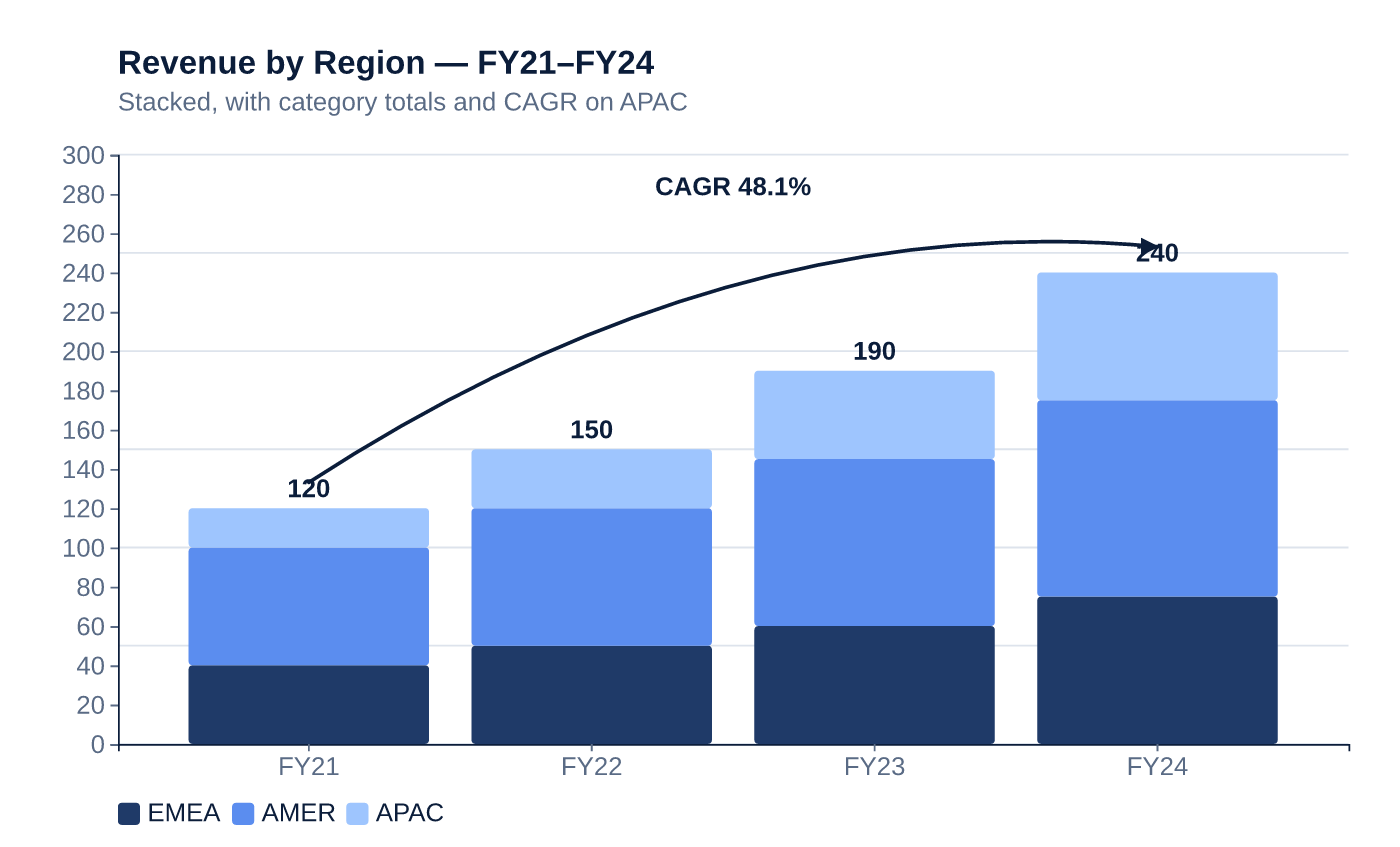
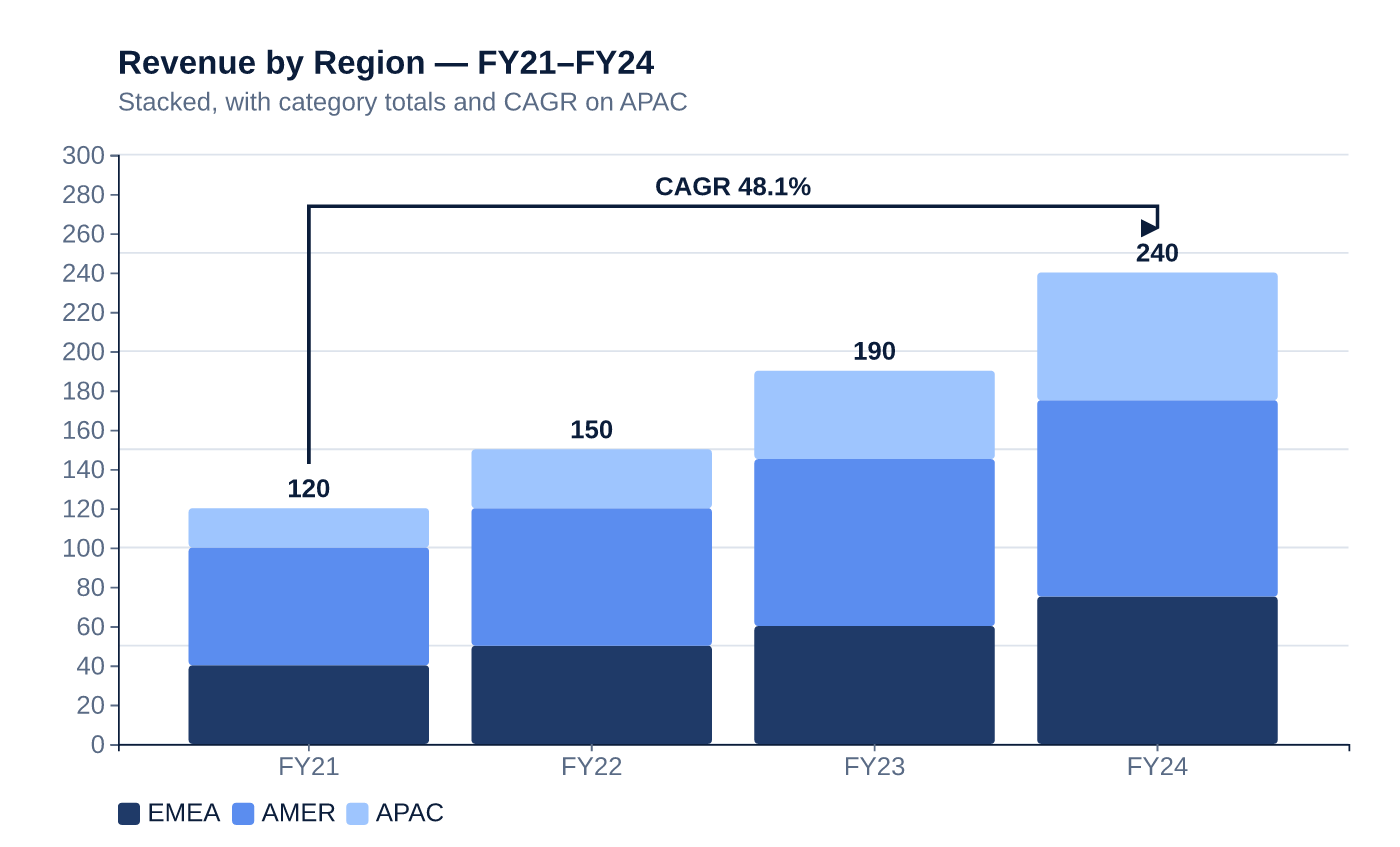
CAGR arrow: angular stairstep with proper data-label clearance
Previously a quadratic-curve bow that crashed through total-label
glyphs at the endpoints. Now an angular L-rail-L stairstep with
trend-aware geometry and explicit margins:

- Vertical leg starts above any data label at the endpoint category
  (value label, stack top, or total_labels glyph) — not just above
  the bar top.
- 10pt clearance between the highest data label in the [from..to]
  span and the horizontal CAGR rail.
- 6pt clearance between the rail and the "CAGR x.x%" label baseline.
- Arrow head lands cleanly on the to-anchor's data label (above it,
  not behind it).

Implementation:

src/annotations.ts
  drawCagrArrow rewritten: angular path
    M from.x fromY  L from.x railY  L to.x railY  L to.x toY
  with marker-end pointing down at toY.

  spanExtremeY(layout, from, to, placement) — new helper. Walks every
  bar + value label in [from..to] inclusive (or every line/area point
  in the same x range) and returns the visual extreme. Used to seat
  the rail above (or below) all in-span data labels.

  dataTopAtCategory(ctx, category, placement) — new helper. Returns
  the topmost rendered point at a single category, accounting for
  bar tops, value labels (valueLabelY), and the synthetic
  total_labels glyph (when total_labels is present in ctx.annotations).
  Used to anchor the start/end of the verticals so they don't crash
  through endpoint labels.

  applyAnnotations now runs background annotations (range_band,
[…]

diff --git a/src/annotations.ts b/src/annotations.ts
@@ -126,6 +126,114 @@ function ensureArrowMarker(frame: ChartFrame, color: string): string {
  * null if not a bar layout, refs don't resolve, or there are no
  * intermediate bars.
  */
+/**
+ * Topmost (smallest y, "above") or bottommost (largest y, "below") rendered
+ * point at a single category — the bar tops, value labels above bars, and
+ * the synthetic total label (if total_labels was requested) at that
+ * category. Used to anchor vertical legs of CAGR/delta brackets so they
+ * start above the data label, not behind it.
+ */
+function dataTopAtCategory(
+  ctx: ApplyContext,
+  category: string | number,
+  placement: "above" | "below",
+): number | null {
+  const layout = ctx.layout;
+  if (
+    layout.kind !== "bar" &&
+    layout.kind !== "stacked_bar" &&
+    layout.kind !== "waterfall"
+  ) {
+    // Line/area: caller handles via the point's own y.
+    return null;
+  }
+  const bars = layout.bars.filter(
+    (b) => String(b.category) === String(category),
+  );
+  if (bars.length === 0) return null;
+  const totalsPresent = ctx.annotations.some(
+    (a) => a.type === "total_labels",
+  );
+  const labelSize = ctx.frame.ds.typography.labelSize;
+  if (placement === "above") {
+    let top = Math.min(
+      ...bars.map((b) => (b.valueLabelY != null ? Math.min(b.y, b.valueLabelY) : b.y)),
+    );
+    if (totalsPresent) {
+      // total_labels baseline = stackTop - 6; glyph top ≈ baseline - labelSize.
+      const stackTop = Math.min(...bars.map((b) => b.y));
+      top = Math.min(top, stackTop - 6 - labelSize);
+    }
+    return top;
+  } else {
+    return Math.max(...bars.map((b) => b.y + b.height));
+  }
+}
+
+/**
+ * Visual extreme-y across the inclusive [from..to] span. For an "above"
+ * placement, returns the smallest y (highest visual point) across all bars
+ * + their value labels + all line/area/scatter points in the span. For
+ * "below" placement, returns the largest y (lowest visual point).
+ *
+ * Used by the angular CAGR/delta drawers so the rail clears every data
+ * label in its span — including the endpoints themselves — not just the
+ * intermediate points.
+ */
+function spanExtremeY(
+  layout: ChartLayout,
+  from: Ref,
+  to: Ref,
+  placement: "above" | "below",
+): number | null {
+  const cmp = (a: number, b: number): number =>
+    placement === "above" ? Math.min(a, b) : Math.max(a, b);
+  let extreme = placement === "above" ? Infinity : -Infinity;
+
+  if (
+    layout.kind === "bar" ||
+    layout.kind === "stacked_bar" ||
+    layout.kind === "waterfall"
+  ) {
+    const cats = layout.axes.x.domain.map(String);
+    const fi = cats.indexOf(String(from.x));
+    const ti = cats.indexOf(String(to.x));
+    if (fi < 0 || ti < 0) return null;
+    const lo = Math.min(fi, ti);
+    const hi = Math.max(fi, ti);
+    for (const b of layout.bars) {
+      const i = cats.indexOf(String(b.category));
+      if (i < lo || i > hi) continue;
+      const candidate =
+        placement === "above"
+          ? b.valueLabelY != null
+            ? Math.min(b.y, b.valueLabelY)
+            : b.y
+          : b.y + b.height;
+      extreme = cmp(extreme, candidate);
+    }
+  } else if (layout.kind === "line" || layout.kind === "area") {
+    const fxRaw = (from as any).x;
+    const txRaw = (to as any).x;
+    const numericSpan =
+      typeof fxRaw === "number" && typeof txRaw === "number";
+    const lo = numericSpan ? Math.min(fxRaw, txRaw) : -Infinity;
+    const hi = numericSpan ? Math.max(fxRaw, txRaw) : Infinity;
+    for (const s of layout.series) {
+      for (const p of s.points) {
+        if (numericSpan && typeof p.xValue === "number") {
+          if (p.xValue < lo || p.xValue > hi) continue;
+        }
+        extreme = cmp(extreme, p.y);
+      }
+    }
+  } else {
+    return null;
+  }
+
+  return Number.isFinite(extreme) ? extreme : null;
+}
+
 function peakYStrictlyBetween(
   layout: ChartLayout,
   from: Ref,
@@ -168,6 +276,10 @@ interface ApplyContext {
    */
   topReserved: number;
   bottomReserved: number;
+  /** Full annotation list — drawers can introspect to know e.g. whether
+   *  total_labels was requested, so they can clear the totals' y zone
+   *  at endpoint columns even when topReserved is the global min. */
+  annotations: Annotation[];
 }
 
 export function applyAnnotations(
@@ -179,8 +291,20 @@ export function applyAnnotations(
     layout: partial.layout,
     topReserved: Infinity,
     bottomReserved: -Infinity,
+    annotations,
   };
-  for (const a of annotations) {
+  // Two-phase: place "background" annotations first (range bands, totals,
+  // reference lines) so above/below-rail annotations (CAGR, delta, bracket,
+  // callout) can reserve space against them. Otherwise CAGR draws first
+  // and crashes through later total labels.
+  const phase1: Annotation[] = annotations.filter(
+    (a) =>
+      a.type === "range_band" ||
+      a.type === "total_labels" ||
+      a.type === "reference_line",
+  );
+  const phase2: Annotation[] = annotations.filter((a) => !phase1.includes(a));
+  for (const a of [...phase1, ...phase2]) {
     try {
       switch (a.type) {
         case "cagr_arrow":
@@ -231,62 +355,121 @@ function drawCagrArrow(
   }
   const periods = inferPeriods(ctx.layout, a.from, a.to) ?? 1;
   const cagr = Math.pow(to.value / from.value, 1 / periods) - 1;
+  const trendUp = to.value >= from.value; // arrow head direction is implicit in stairstep
   const label = a.label ?? `CAGR ${fmtPct(cagr, a.format)}`;
   const color = a.color ?? ctx.frame.ds.palette.foreground;
+  const labelSize = ctx.frame.ds.typography.labelSize;
 
-  // Per-endpoint lift. For "above" we lift each endpoint slightly off the
-  // bar top; for "below" we drop them. For "inline" we leave them on.
-  const baseLift = a.placement === "inline" ? 0 : 14;
-  const sign = a.placement === "below" ? 1 : -1;
-  const fromY = from.y + sign * baseLift;
-  const toY = to.y + sign * baseLift;
+  // User-spec clearances: 10pt between data labels and the CAGR rail,
+  // and 6pt between rail and CAGR % label baseline.
+  const DATA_LABEL_GAP = 10;
+  const LABEL_TO_RAIL_GAP = 6;
+  // Tiny lift off the bar top so the vertical leg doesn't kiss the label.
+  const ENDPOINT_GAP = 4;
 
-  // Apex of the curve: pulled past the higher endpoint so the bow is visible.
-  // For bar layouts, also clear any intermediate bars + their value labels.
-  const peak = peakYStrictlyBetween(ctx.layout, a.from, a.to);
-  const plotBottom = ctx.layout.plot.height;
-  let apexY: number;
-  if (a.placement === "below") {
-    let baseline = Math.max(fromY, toY);
-    if (Number.isFinite(ctx.bottomReserved))
-      baseline = Math.max(baseline, ctx.bottomReserved + ctx.frame.ds.spacing.annotationLabelGap);
-    apexY = Math.min(baseline + 22, plotBottom - ctx.frame.ds.spacing.plotTopMargin);
+  const placement: "above" | "below" =
+    a.placement === "below" ? "below" : "above";
+
+  // Compute the visual extreme across the entire span (from .. to inclusive),
+  // including each bar's value label (valueLabelY) when present, and stack
+  // tops at intermediate categories. For line/area, walks all in-span points.
+  const extreme = spanExtremeY(ctx.layout, a.from, a.to, placement);
+
+  let railY: number;
+  if (placement === "above") {
+    let baseline = Math.min(from.y, to.y);
+    if (extreme != null) baseline = Math.min(baseline, extreme);
+    if (Number.isFinite(ctx.topReserved)) {
+      baseline = Math.min(
+        baseline,
+        ctx.topReserved - ctx.frame.ds.spacing.annotationLabelGap,
+      );
+    }
+    railY = baseline - DATA_LABEL_GAP;
+    // Clamp inside plot so the label above stays visible.
+    railY = Math.max(
+      railY,
+      ctx.frame.ds.spacing.plotTopMargin + labelSize + LABEL_TO_RAIL_GAP,
+    );
   } else {
-    let baseline = Math.min(fromY, toY);
-    if (peak != null) baseline = Math.min(baseline, peak - ctx.frame.ds.spacing.annotationValueClearance);
-    if (Number.isFinite(ctx.topReserved))
-      baseline = Math.min(baseline, ctx.topReserved - ctx.frame.ds.spacing.annotationLabelGap);
-    // Clamp inside plot so label stays visible. Reserve room for label above apex.
-    apexY = Math.max(baseline - 22, ctx.frame.ds.spacing.plotTopMargin + 14);
+    let baseline = Math.max(from.y, to.y);
+    if (extreme != null) baseline = Math.max(baseline, extreme);
+    if (Number.isFinite(ctx.bottomReserved)) {
+      baseline = Math.max(
+        baseline,
+        ctx.bottomReserved + ctx.frame.ds.spacing.annotationLabelGap,
+      );
+    }
+    railY = baseline + DATA_LABEL_GAP;
+    railY = Math.min(
+      railY,
+      ctx.layout.plot.height -
+        ctx.frame.ds.spacing.plotTopMargin -
+        labelSize -
+        LABEL_TO_RAIL_GAP,
+    );
   }
 
-  const midX = (from.x + to.x) / 2;
-  const markerId = ensureArrowMarker(ctx.frame, color);
+  // Start the verticals above (or below) any data label at the endpoint
+  // category — value label, stack-top, or total label. Falls back to the
+  // resolved anchor y for line/area layouts.
+  const fromTop =
+    a.from.x != null ? dataTopAtCategory(ctx, a.from.x, placement) : null;
+  const toTop =
+    a.to.x != null ? dataTopAtCategory(ctx, a.to.x, placement) : null;
+  const fromAnchor = fromTop ?? from.y;
+  const toAnchor = toTop ?? to.y;
+  const fromY =
+    placement === "above" ? fromAnchor - ENDPOINT_GAP : fromAnchor + ENDPOINT_GAP;
+  const toY =
+    placement === "above" ? toAnchor - ENDPOINT_GAP : toAnchor + ENDPOINT_GAP;
 
-  const path = `M ${from.x} ${fromY} Q ${midX} ${apexY}, ${to.x} ${toY}`;
+  // Angular stairstep: vertical → horizontal rail → vertical down to to.y.
+  // Marker-end orientation is determined by the last segment, which always
+  // ends running toward to.y → arrow visually "lands" on the to anchor.
+  const path =
+    `M ${from.x} ${fromY} ` +
+    `L ${from.x} ${railY} ` +
+    `L ${to.x} ${railY} ` +
+    `L ${to.x} ${toY}`;
+
+  const markerId = ensureArrowMarker(ctx.frame, color);
   const g = ctx.frame.overlay.append("g").attr("class", "annotation-cagr");
   g.append("path")
     .attr("d", path)
     .attr("fill", "none")
     .attr("stroke", color)
     .attr("stroke-width", ctx.frame.ds.annotations.arrow.strokeWidth)
-    .attr("stroke-linecap", "round")
+    .attr("stroke-linejoin", "miter")
+    .attr("stroke-linecap", "butt")
     .attr("marker-end", `url(#${markerId})`);
 
-  const labelY = a.placement === "below" ? apexY + 16 : apexY - 6;
+  // CAGR % label centered on the horizontal rail, 6pt above (or below).
+  const midX = (from.x + to.x) / 2;
+  const labelY =
+    placement === "above"
+      ? railY - LABEL_TO_RAIL_GAP
+      : railY + LABEL_TO_RAIL_GAP + labelSize;
+
   g.append("text")
     .attr("x", midX)
     .attr("y", labelY)
     .attr("text-anchor", "middle")
-    .attr("font-size", ctx.frame.ds.typography.labelSize)
+    .attr("font-size", labelSize)
     .attr("font-weight", 600)
     .attr("fill", color)
     .text(label);
 
-  if (a.placement === "below") {
-    ctx.bottomReserved = Math.max(ctx.bottomReserved, labelY);
-  } else {
-    ctx.topReserved = Math.min(ctx.topReserved, labelY - ctx.frame.ds.spacing.annotationLabelHeight);
+  // Tiny visual hint: when the trend is down, paint a small caret at the rail
+  // start so a glance still reveals direction. (No-op if trendUp.)
+  if (!trendUp) {
+    g.append("title").text(`Down trend (${label})`);
+  }
+
+  // Reserve so subsequent annotations (e.g. another CAGR or a delta) stack
+  // above us rather than colliding.
+  if (placement === "above") {
+    ctx.topReserved = Math.min(ctx.topReserved, labelY - labelSize);
   }
 }
 
@@ -611,16 +794,28 @@ function drawTotalLabels(
   const layer = ctx.frame.overlay
     .append("g")
     .attr("class", "annotation-totals");
+  let topmostLabelTop = Infinity;
   for (const [, g] of groups) {
+    const labelBaselineY = g.topY - 6;
     layer
       .append("text")
       .attr("x", g.topX)
-      .attr("y", g.topY - 6)
+      .attr("y", labelBaselineY)
       .attr("text-anchor", "middle")
       .attr("font-size", ctx.frame.ds.typography.labelSize)
       .attr("font-weight", 600)
       .attr("fill", color)
       .text(fmt(g.total));
+    // Top of the rendered label glyphs ≈ baseline - labelSize.
+    topmostLabelTop = Math.min(
+      topmostLabelTop,
+      labelBaselineY - ctx.frame.ds.typography.labelSize,
+    );
+  }
+  // Reserve so subsequent annotations (CAGR, delta, bracket) clear the
+  // total labels rather than crashing through them.
+  if (Number.isFinite(topmostLabelTop)) {
+    ctx.topReserved = Math.min(ctx.topReserved, topmostLabelTop);
   }
 }
 
